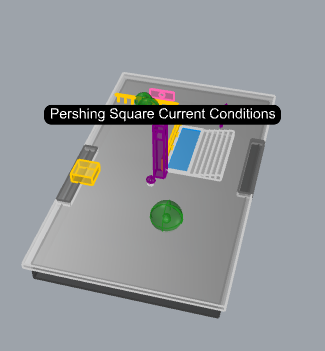
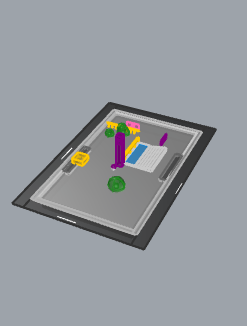
added google map elemens to site, added street context

Changed region(s): [[0.0283, 0.184, 0.8785, 0.9202]]

diff --git a/logic/site_reconstruction.py b/logic/site_reconstruction.py
@@ -18,19 +18,55 @@ def reconstruct_pershing_square_base():
     rs.AddLayer("00_SITE::RAMPS", (100, 100, 100))
     rs.AddLayer("00_SITE::LANDSCAPE", (34, 139, 34))
     rs.AddLayer("00_SITE::WATER", (0, 150, 255))
+    rs.AddLayer("00_SITE::SIDEWALK", (180, 180, 180))
+    rs.AddLayer("00_SITE::STREET", (50, 50, 50))
+    rs.AddLayer("00_SITE::STREET_TEXT", (255, 255, 255))
     rs.AddLayer("06_LABELS", (255, 255, 255))
     
+    # 0a. Surrounding Sidewalk Context (15ft wide)
+    sw_w = rs.AddBox([[-15, -15, -1], [0, -15, -1], [0, 565, -1], [-15, 565, -1], [-15, -15, 0], [0, -15, 0], [0, 565, 0], [-15, 565, 0]])
+    sw_e = rs.AddBox([[330, -15, -1], [345, -15, -1], [345, 565, -1], [330, 565, -1], [330, -15, 0], [345, -15, 0], [345, 565, 0], [330, 565, 0]])
+    sw_s = rs.AddBox([[0, -15, -1], [330, -15, -1], [330, 0, -1], [0, 0, -1], [0, -15, 0], [330, -15, 0], [330, 0, 0], [0, 0, 0]])
+    sw_n = rs.AddBox([[0, 550, -1], [330, 550, -1], [330, 565, -1], [0, 565, -1], [0, 550, 0], [330, 550, 0], [330, 565, 0], [0, 565, 0]])
+    rs.ObjectLayer([sw_w, sw_e, sw_s, sw_n], "00_SITE::SIDEWALK")
+
+    # 0b. Surrounding Streets (40ft wide)
+    st_w = rs.AddBox([[-55, -55, -2], [-15, -55, -2], [-15, 605, -2], [-55, 605, -2], [-55, -55, -1], [-15, -55, -1], [-15, 605, -1], [-55, 605, -1]])
+    st_e = rs.AddBox([[345, -55, -2], [385, -55, -2], [385, 605, -2], [345, 605, -2], [345, -55, -1], [385, -55, -1], [385, 605, -1], [345, 605, -1]])
+    st_s = rs.AddBox([[-15, -55, -2], [345, -55, -2], [345, -15, -2], [-15, -15, -2], [-15, -55, -1], [345, -55, -1], [345, -15, -1], [-15, -15, -1]])
+    st_n = rs.AddBox([[-15, 565, -2], [345, 565, -2], [345, 605, -2], [-15, 605, -2], [-15, 565, -1], [345, 565, -1], [345, 605, -1], [-15, 605, -1]])
+    rs.ObjectLayer([st_w, st_e, st_s, st_n], "00_SITE::STREET")
+
+    # 0c. Painted Street Names (Flat on the asphalt)
+    # West 6th St (South boundary)
+    plane_s = rs.MovePlane(rs.WorldXYPlane(), [100, -40, 0])
+    text_s = rs.AddText("W 6th St", plane_s, 1)
+    
+    # West 5th St (North boundary)
+    plane_n = rs.MovePlane(rs.WorldXYPlane(), [100, 575, 0])
+    text_n = rs.AddText("W 5th St", plane_n, 1)
+    
+    # South Olive St (West boundary) - Rotated 90 degrees
+    plane_w = rs.RotatePlane(rs.MovePlane(rs.WorldXYPlane(), [-40, 200, 0]), 90, [0,0,1])
+    text_w = rs.AddText("S Olive St", plane_w, 1)
+    
+    # South Hill St (East boundary) - Rotated 90 degrees
+    plane_e = rs.RotatePlane(rs.MovePlane(rs.WorldXYPlane(), [375, 200, 0]), 90, [0,0,1])
+    text_e = rs.AddText("S Hill St", plane_e, 1)
+    
+    rs.ObjectLayer([text_s, text_n, text_w, text_e], "00_SITE::STREET_TEXT")
+
     # 1. Base plaza bounding (approx 330ft x 550ft block)
-    plaza = rs.AddBox([[0,0,0], [330,0,0], [330,550,0], [0,550,0], [0,0,-10], [330,0,-10], [330,550,-10], [0,550,-10]])
+    plaza = rs.AddBox([[0,0,-10], [330,0,-10], [330,550,-10], [0,550,-10], [0,0,0], [330,0,0], [330,550,0], [0,550,0]])
     
     # 1b. The 3-Story Underground Parking Garage
-    garage = rs.AddBox([[10, 10, -10], [320, 10, -10], [320, 540, -10], [10, 540, -10], [10, 10, -45], [320, 10, -45], [320, 540, -45], [10, 540, -45]])
+    garage = rs.AddBox([[10, 10, -45], [320, 10, -45], [320, 540, -45], [10, 540, -45], [10, 10, -10], [320, 10, -10], [320, 540, -10], [10, 540, -10]])
     rs.ObjectLayer(garage, "00_SITE::SUBTERRANEAN_GARAGE")
     
     # 1c. The Entrance Ramps (Olive St & Hill St)
-    ramp_west = rs.AddBox([[0, 150, 0], [25, 150, 0], [25, 300, 0], [0, 300, 0], [0, 150, -15], [25, 150, -15], [25, 300, -15], [0, 300, -15]])
+    ramp_west = rs.AddBox([[0, 150, -15], [25, 150, -15], [25, 300, -15], [0, 300, -15], [0, 150, 0], [25, 150, 0], [25, 300, 0], [0, 300, 0]])
     rs.ObjectLayer(ramp_west, "00_SITE::RAMPS")
-    ramp_east = rs.AddBox([[305, 250, 0], [330, 250, 0], [330, 400, 0], [305, 400, 0], [305, 250, -15], [330, 250, -15], [330, 400, -15], [305, 400, -15]])
+    ramp_east = rs.AddBox([[305, 250, -15], [330, 250, -15], [330, 400, -15], [305, 400, -15], [305, 250, 0], [330, 250, 0], [330, 400, 0], [305, 400, 0]])
     rs.ObjectLayer(ramp_east, "00_SITE::RAMPS")
     
     # Carve the ramps out of the main plaza using Boolean Difference

diff --git a/CHANGELOG.md b/CHANGELOG.md
@@ -1,0 +1,34 @@
+# Memory Machine - Development Log
+
+## [Latest Updates] - Architecture, Autonomous Discovery & High-Fidelity Generation
+
+### 1. System Infrastructure & Orchestration
+*   **Virtual Environment Initialization:** Successfully isolated the project dependencies using a local `venv` to avoid global package conflicts. Installed core libraries (`playwright`, `opencv-python`, `google-generativeai`, `duckduckgo-search`).
+*   **Machine OS (`machine_os.py`):** Created the central orchestrator. It now uses Gemini NLP to interpret natural language directives, extract target locations, and automatically trigger the entire data-harvesting and mapping pipeline.
+*   **Universal Parsers (`spatial_extractor.py`, `spatial_mapper.py`):** Upgraded scripts from hardcoded single-use files to accept command-line arguments. Expanded the architectural vocabulary to include landscape and park elements (e.g., `tree`, `path`, `water`, `pavilion`).
+
+### 2. Autonomous Discovery & Scraping
+*   **Free Data Scraper (`free_scraper.py`):** Built a 100% free data scraper utilizing the Wikipedia API and DuckDuckGo text search to bypass paid APIs. Implemented RegEx for safe filename generation.
+*   **Autonomous Discovery Protocol (`autonomous_discovery.py`):** Engineered an AI-driven agent capable of searching the web for highly rated public spaces based on open-ended queries, parsing the results, and automatically feeding the best locations into the Memory Machine.
+
+### 3. Computer Vision & Satellite Mapping
+*   **Satellite Drone Scraper (`satellite_scraper.py`):** Automated Google Maps satellite captures using headless Chromium (Playwright). The script flies to specific GPS coordinates, injects CSS to hide the UI, and saves a clean aerial photograph.
+*   **OpenCV Site Mapper (`opencv_site_mapper.py`):** Implemented an AI computer vision script to scan satellite images, detect green vegetation pixels, calculate real-world Rhino coordinates, and export them to `extracted_trees.csv`. It also outputs an analyzed visual markup image (`pershing_satellite_analyzed.jpg`) for the presentation deck.
+
+### 4. High-Fidelity Rhino Generation
+*   **Pershing Square Base (`site_reconstruction.py`):** Upgraded the base site from simple boxes to a high-fidelity architectural proxy.
+    *   Added the 3-story subterranean parking garage.
+    *   Used Boolean Difference to carve out the entry ramps on Olive and Hill streets.
+    *   Carved the iconic cutout in the purple Campanile tower and the arches in the yellow aqueduct wall.
+    *   Added the recessed water basin, stepped amphitheater, yellow transit pavilion, and geometric view-framing walls.
+    *   Integrated the OpenCV CSV data to automatically plant trees in their exact real-world locations.
+*   **Intervention Engine (`intervention_engine.py`):** Transitioned from manual placement to an Auto-Deploy system. 
+    *   The script now automatically imports and builds the Pershing Square base first.
+    *   Auto-scatters parsed memory assets dynamically across the site.
+    *   Upgraded procedural geometry fallbacks (e.g., multi-sphere tree canopies, tiered fountains, columned pavilions, and rotating stepped monuments).
+    *   Checks the `archive/assets/models/` folder to automatically import high-fidelity `.obj` or `.3dm` files if they match the asset name.
+*   **Universal Builder (`rhino_universal.py`):** Created a standalone Rhino script capable of reading *any* generated CSV massing blueprint and procedurally building the space with organic scattering and dynamic geometries.
+
+### 5. Quality of Life & Workflow Improvements
+*   **Automated Archiving:** Added Rhino Python commands (`_-ViewCaptureToFile`) to automatically take high-resolution 1920x1080 screenshots of the 3D viewport after scripts finish running, saving them directly to `archive/render_output/`.
+*   **Label Management:** Standardized all generated text dots across all scripts to be placed on a uniform `06_LABELS` layer, allowing them to be instantly toggled off for clean rendering.
